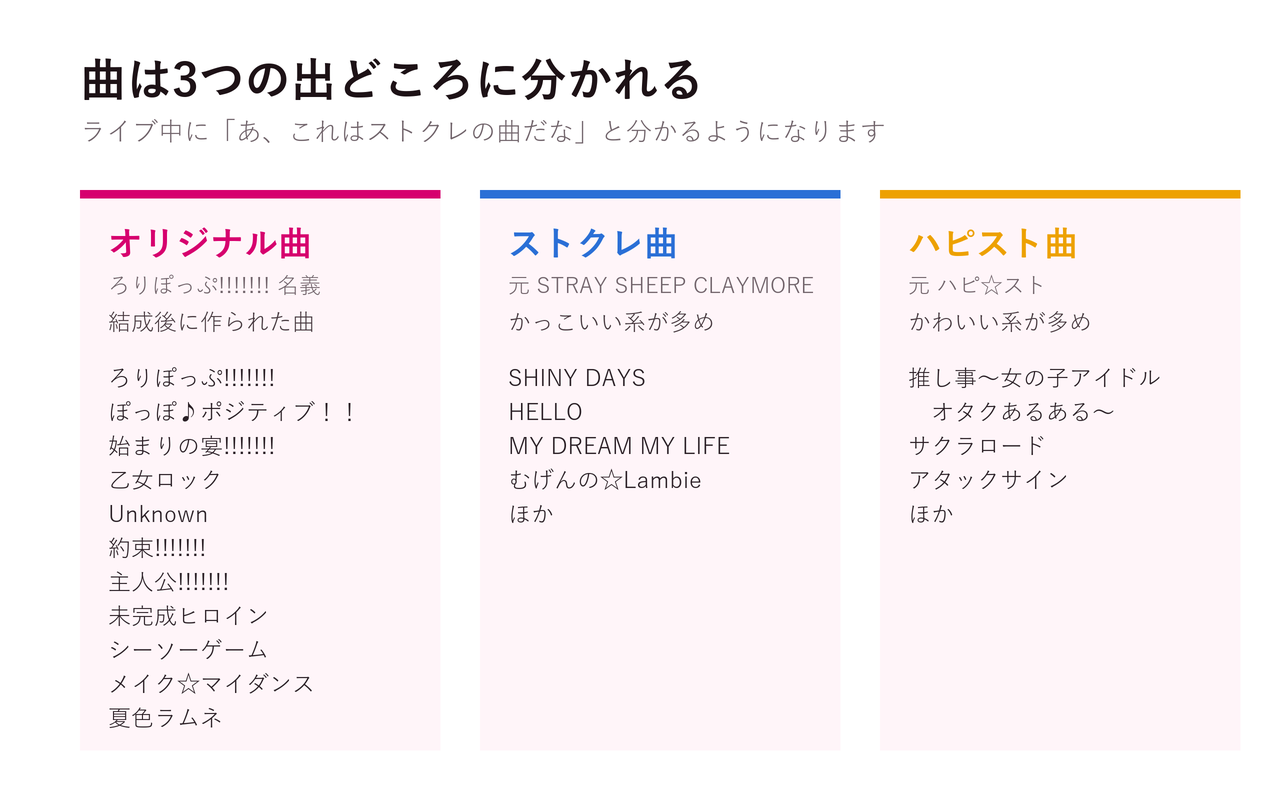
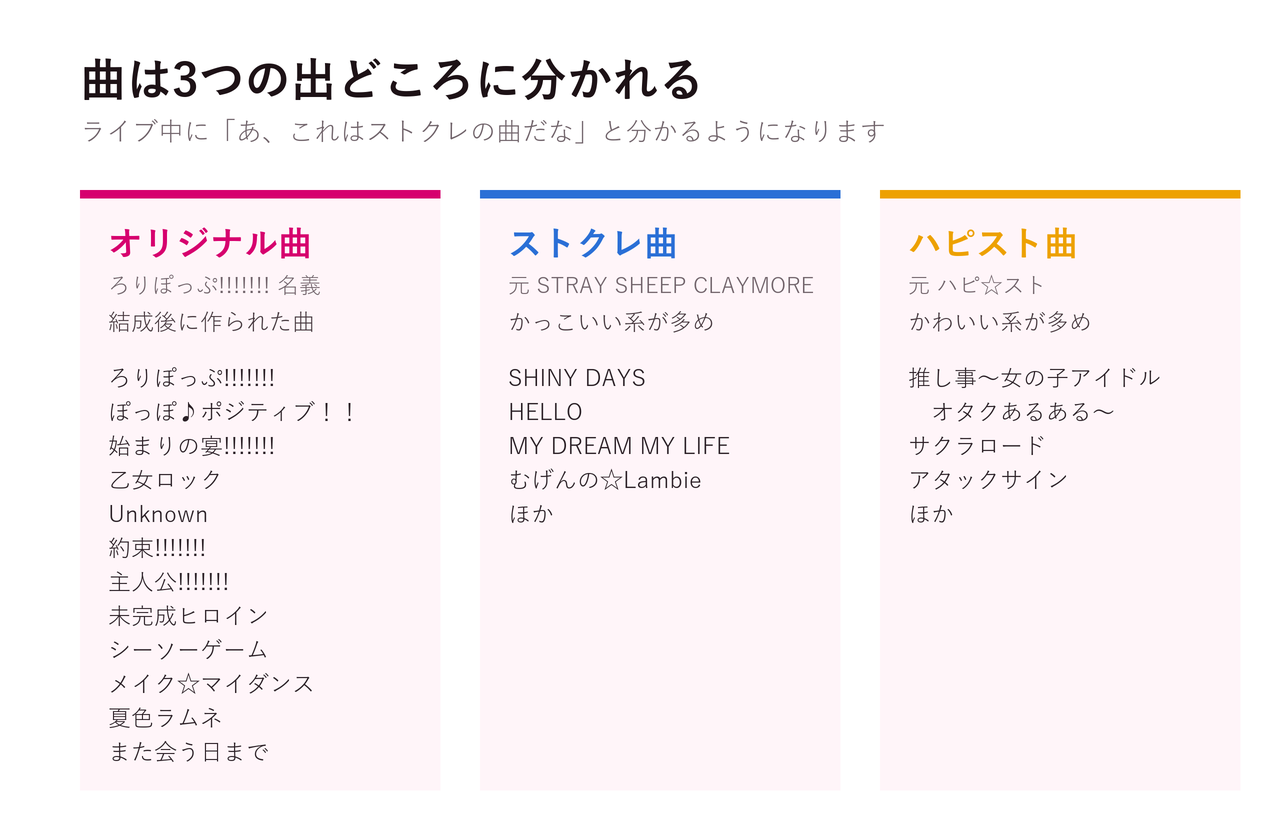
スターターパックに新曲「また会う日まで」と 2周年SPライブを追記する
- 入門編: 歩みに 9/20 の新曲初披露と 11/6 の 2周年SPライブを追加、オリジナル曲一覧に「また会う日まで」、
  配信の節に 9 月の配信開始 3 曲を追加。年表と曲の出どころの図も作り直した
- 現場編: ワンマンの節に 2周年SPライブを追加
- guide/starter_pack.md にも同じ内容を反映

Claude-Session: https://claude.ai/code/session_01PGcDMTwMr4pbwKWxSMcVuy

diff --git a/articles/スターターパック/01_入門編.md b/articles/スターターパック/01_入門編.md
@@ -76,6 +76,8 @@ https://x.com/lollipop_1116
 - **2026年6月6日**: 新宿ReNYで3rdワンマンライブ「全力疾走」
 - **2026年8月15日**: 苺花なつみが卒業
 - **2026年8月22日**: 「ガラストロメ!!」から**5人体制が始動**
+- **2026年9月20日**: 単独ライブvol.19で新曲「また会う日まで」を初披露
+- **2026年11月6日（予定）**: YOANI Live Stationで2周年SPライブ。11月16日でデビューから2年になります
 
 【画像②: 年表】
 
@@ -105,7 +107,7 @@ https://x.com/lollipop_1116
 **オリジナル曲（ろりぽっぷ!!!!!!!名義）** — 結成後に作られた曲。ライブの軸になります。
 
 - ろりぽっぷ!!!!!!! / ぽっぽ♪ポジティブ！！ / 始まりの宴!!!!!!! / 乙女ロック / Unknown
-- 約束!!!!!!! / 主人公!!!!!!! / 未完成ヒロイン / シーソーゲーム / メイク☆マイダンス / 夏色ラムネ
+- 約束!!!!!!! / 主人公!!!!!!! / 未完成ヒロイン / シーソーゲーム / メイク☆マイダンス / 夏色ラムネ / また会う日まで
 
 **ストクレ曲（元STRAY SHEEP CLAYMORE）** — かっこいい系が多め。
 
@@ -207,6 +209,8 @@ https://note.com/1116_fan/n/n841afa980b7e
 サブスクで検索すると、**「!」の数が違う2つのアカウントが出てきます。**
 「!」が6個のほうは6人体制だった時期の配信名義で、7個が現在の名義です。
 両方チェックすると曲を取りこぼしません。
+
+2026年9月には「未完成ヒロイン」「夏色ラムネ」（9月20日〜）と、新曲「また会う日まで」（9月21日〜）の配信も始まりました。
 
 ろりぽっぷ!!!!!!!（!が7個・現在の名義）
 

diff --git a/articles/スターターパック/03_現場編.md b/articles/スターターパック/03_現場編.md
@@ -362,6 +362,8 @@ https://note.com/1116_fan/n/n46157fc4b1fa
 年に1〜2回。フルセットで、動画も全編撮影OK。特別な日です。
 2026年6月には新宿ReNYで3rdワンマン「全力疾走」が開催され、新曲2曲がお披露目されました。
 
+次の大きな公演は、**2026年11月6日（金）の2周年SPライブ**（YOANI Live Station、OPEN 18:20／START 18:50。詳細は後日発表・2026年9月29日時点）です。
+
 ## グッズ
 
 会場の物販のほか、オンラインショップもあります。
